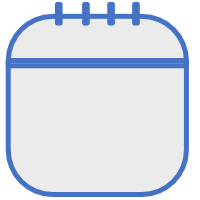
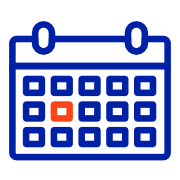
Continue updates for spring 2022

diff --git a/index.md b/index.md
@@ -4,9 +4,11 @@ keywords: syllabus
 tags: 
 sidebar: home_sidebar
 permalink: index.html
-summary: Applications of AI in Biology
+summary: Course website for the Spring 2022 edition of Zoo4926 (section 4G55) / Zoo6927 (section 5F55), AI in Biology. Covering applications of AI in Biology.
 toc: false
 ---
+
+{% include warning.html content="I am in the process of updating this site for Spring 2022. The course goals and overall structure are there, but dates, assignments, details are still being updated." %}
 
 ## Course Description
 
@@ -18,13 +20,34 @@ The course will attempt to provide sufficient background and foundations so that
 
 Classes will have some lecture, though most classes will consist of live coding demos and hands-on exercises.
 
+___
+## Instructor
+
+**Matt Gitzendanner**<br>
+**Email:** <a href="mailto:magitz@ufl.edu">magitz@ufl.edu</a><br>
+**Office:** Dickinson Hall, stop at front desk and they will call me
+ 
+**About:**  Dr Gitzendanner's background is in plant evolutionary genetics and genomics where he uses genetic tools to study the conservation, evolution, and diversity of plants. The field is generally computationally intensive, and Matt has worked for 10 years training users how to use HiPerGator and other high-performance computing systems to do the amazing research that is done across the University of Florida campus.
+
+The initial version of this course, taught in Spring 2021, was co-developed with [Brian Stucky](https://github.com/stuckyb).
+
+In addition to this course, Matt teaches
+  * [Computational Tools for Research in Biology (BSC4452/6451)](https://comptoolsres.github.io/)
+  * Frontiers in AI (EGN1935, Fall 2021. Will likely be offered in Fall 2022 as a IDS class!)
+  * [Practicum AI](https://practicumai.org/)
+  * [Research Computing Trainings](https://help.rc.ufl.edu/doc/Training)
+  * [NVIDIA DLI Fundamentals of Deep Learning](https://www.nvidia.com/en-us/training/instructor-led-workshops/fundamentals-of-deep-learning/) certified instructor
+
+Matt enjoys spending time outdoors, hiking, backpacking and kayaking.
+
+___
 ## Prerequisites
 
 ### Computer programming
 
-The course assumes a basic understanding of computer programming in general, and Python in particular.
+The course assumes a **basic understanding of computer programming** in general, and Python in particular.
 
-If you have not taken a programming course or are new to Python, there are several LinkedIn Learning courses that will give you sufficient background to be ready for this course:
+If you have not taken a programming course or are new to Python, there are several LinkedIn Learning courses that will give you sufficient background to be ready for this course (these are free for UF Students):
 
 * [Programming Foundations: Fundamentals](https://www.linkedin.com/learning-login/share?forceAccount=false&redirect=https%3A%2F%2Fwww.linkedin.com%2Flearning%2Fprogramming-foundations-fundamentals-3%3Ftrk%3Dshare_ent_url&account=41282748)
   * This course is best for people with no coding experience.
@@ -34,28 +57,32 @@ If you have not taken a programming course or are new to Python, there are sever
 * [Learning Python](https://www.linkedin.com/learning-login/share?forceAccount=false&redirect=https%3A%2F%2Fwww.linkedin.com%2Flearning%2Flearning-python%3Ftrk%3Dshare_ent_url&account=41282748)
   * Another option for those with some coding experience
 
-Note, you do not need to do all of these. Any one would get you at a good place to start the semester. We will review the basics of Python in the first weeks.
+
+ {% include note.html content="Note, you do not need to do all of these. Any **one** would get you at a good place to start the semester. We will review the basics of Python in the first weeks." %}
 
 ### Math
 
-You should have an understanding of probability and statistics at the level of a first applied statistics course.
+You should have a **general understanding of probability and statistics** at the level of a first applied statistics course.
 
-Knowledge of basic calculus and, to a lesser extent, linear algebra, will also be helpful. We won't focus on the math, but having at least a conceptual understanding of derivatives, function optimization, and matrix math will be useful.
+Knowledge of basic calculus and, to a lesser extent, linear algebra, can be helpful. We won't focus on the math, but having a conceptual understanding of derivatives, function optimization, and matrix math will be useful. 
 
 If you are unsure, contact the instructor.
 
+___
 ## Meeting Times
 
-* **Mon, Wed, Fri 1:55pm - 2:45pm Bartram 211**
+* **Mon, Wed, Fri from 1:55pm - 2:45pm in Bartram 211**
 
  {% include important.html content="You should make every effort to attend class synchronously. While I will record class sessions, **during class is the best opportunity to ask questions and get help from the instructors and others in the class.**" %}
 
 * I understand that some students will need to miss classes sometimes. That is fine and I will do my best to help you catch up, but regular attendance is the best way to learn.
 
+___
 {% include custom/office_hours.html %}
 
  {% include tip.html content="Coding is not always easy. Simple solutions are not always obvious. There will be some frustration. **I expect that you will need help. You should expect that you will need help.** I want to help you! I cannot always help if you do not ask for the help you need. *Please ask for help!*" %}
 
+___
 ## Course Textbooks
 
 {% include image.html file='textbook.png' alt="textbook icon" position="right" max-width=75 %}
@@ -65,6 +92,7 @@ While we will not use any one text for the course, we will use sections of these
 
 * [{% include inline_image.html file='D2DL_cover.png' alt="D2DL textbook icon"  %} Dive into Deep Learning by Aston Zhang, Zachary Lipton, Mu Li and Alexander Smola](https://d2l.ai/)
 
+___
 ## Course Calendar
 
 {% include image.html file='calendar.png' alt="calendar icon" position="right" max-width=75 %}
@@ -75,8 +103,8 @@ For readings, there may be links to pages with my notes and additional explanati
 
 Week | Date | Reading/Assignment |Topic |
 -----|------|--------------------|------|
-[1](Week_01.html) | Wed, Jan 5 |  | Course introduction ([slides](https://docs.google.com/presentation/d/1_o3_VOy9xAxA2GZiSQbT-QVd5wIV3Em-ta5JbJ2yS0o/edit?usp=sharing))<BR> What is AI, what is intelligence, what AI isn’t ([slides](documents/intro_to_AI.pdf))
-[1](Week_01.html) | Fri, Jan 7 | [Take the HiPerGator Account training](https://help.rc.ufl.edu/doc/New_user_training) <br /> [Driverless cars show the limits of today’s AI](https://www.economist.com/technology-quarterly/2020/06/11/driverless-cars-show-the-limits-of-todays-ai) | Historical Context ([slides](documents/intro_to_AI.pdf))<br>* Origins of AI as an academic discipline.<br>* A repeating pattern: major hype and enthusiasm followed by an AI “winter”.<br>* Where are we now?<br>
+[1](Week_01.html) | Wed, Jan 5 |  | Course introduction ([slides](https://docs.google.com/presentation/d/10_t6BSQsqlYv5FPHprm_Pm3jomdfEnmIJV_Il1MH4Q4/edit?usp=sharing))<BR> What is AI, what is intelligence, what AI isn’t ([slides](documents/intro_to_AI.pdf))
+[1](Week_01.html) | Fri, Jan 7 | [Take the HiPerGator Account training](https://help.rc.ufl.edu/doc/New_user_training) | Historical Context ([slides](documents/intro_to_AI.pdf))<br>* Origins of AI as an academic discipline.<br>* A repeating pattern: major hype and enthusiasm followed by an AI “winter”.<br>* Where are we now?<br>
 |||
 [2](Week_02.html) | Mon, Jan 10 | | [Introduction to Jupyter](jupyter_intro.md)
 [2](Week_02.html) | Wed, Jan 12 | | [Introduction to Python](https://github.com/AIBiology/Jupyter_Content/blob/main/Intro_to_Python_Student.ipynb)
@@ -87,56 +115,56 @@ Week | Date | Reading/Assignment |Topic |
 [3](Week_03.html) | Fri, Jan 21 | [![PDHS Image](images/PDSH-cover-small.png) Ch 3 of PDSH: Data Manipulation with Pandas](https://jakevdp.github.io/PythonDataScienceHandbook/03.00-introduction-to-pandas.html) | [Introduction to Pandas](https://github.com/AIBiology/Jupyter_Content/blob/main/Intro_to_Pandas_student.ipynb) <br> [Data Visualization in Pandas](https://github.com/AIBiology/Jupyter_Content/blob/main/Pandas_data_vis.ipynb)<br>Review of general Python: Functions, Good programming practices (DRY, avoid globals, etc.).
 |||
 [4](Week_04.html) | Mon, Jan 24 | **Problem Set 1 due** | [Writing readable code, numpy array arithmetic, data visualization in Python](https://github.com/AIBiology/Jupyter_Content/blob/main/Python_data_visualization.ipynb)
-[4](Week_04.html) | Wed, Jan 26 | [![PDHS Image](images/PDSH-cover-small.png) Section 5.01 of PDSH: What is Machine Learning?](https://jakevdp.github.io/PythonDataScienceHandbook/05.01-what-is-machine-learning.html) | [Data visualization in Python](https://github.com/AIBiology/Jupyter_Content/blob/main/Python_data_visualization.ipynb)
-[4](Week_04.html) | Fri, Jan 28 | Problem Set 2 available, due {{site.ps_2_due}} | [Introduction to machine learning and supervised learning](https://github.com/AIBiology/Jupyter_Content/blob/main/intro_to_supervised_learning.ipynb)
+[4](Week_04.html) | Wed, Jan 26 | [![PDHS Image](images/PDSH-cover-small.png) Section 5.01 of PDSH: What is Machine Learning?](https://jakevdp.github.io/PythonDataScienceHandbook/05.01-what-is-machine-learning.html) |  [Introduction to machine learning and supervised learning](https://github.com/AIBiology/Jupyter_Content/blob/main/intro_to_supervised_learning.ipynb)
+[4](Week_04.html) | Fri, Jan 28 | Problem Set 2 available, due {{site.ps_2_due}} | Supervised learning, introduction to numerical optimization
 |||
-[5](Week_05.html) | Mon, Jan 31 |  | Supervised learning, introduction to numerical optimization
-[5](Week_05.html) | Wed, Feb 2 | [![PDHS Image](images/PDSH-cover-small.png) Section 5.02 of PDSH: Introducing Scikit-Learn (read through _Basics of the API_)](https://jakevdp.github.io/PythonDataScienceHandbook/05.02-introducing-scikit-learn.html) | Supervised learning and numerical optimization, scikit-learn and regression
-[5](Week_05.html) | Fri, Feb 4 | **Problem Set 2 due** | Bias/variance tradeoff and regularization
+[5](Week_05.html) | Mon, Jan 31 |  | Supervised learning and numerical optimization, scikit-learn and regression
+[5](Week_05.html) | Wed, Feb 2 | [![PDHS Image](images/PDSH-cover-small.png) Section 5.02 of PDSH: Introducing Scikit-Learn (read through _Basics of the API_)](https://jakevdp.github.io/PythonDataScienceHandbook/05.02-introducing-scikit-learn.html) | Bias/variance tradeoff and regularization
+[5](Week_05.html) | Fri, Feb 4 | **Problem Set 2 due** |  Model validation, cross-validation, and hyperparameters
 |||
-[6](Week_06.html) | Mon, Feb 7 |  | Model validation, cross-validation, and hyperparameters<!--[Hands on regression analysis](https://github.com/UFResearchComputing/Understanding_PyTorch)-->
-[6](Week_06.html) | Wed, Feb 9 |  | Hands-on data analysis practice
-[6](Week_06.html) | Fri, Feb 11 | | Hands-on data analysis, problem set help
+[6](Week_06.html) | Mon, Feb 7 |  |Hands-on data analysis practice
+[6](Week_06.html) | Wed, Feb 9 |  | Hands-on data analysis, problem set help
+[6](Week_06.html) | Fri, Feb 11 | [![PDHS Image](images/PDSH-cover-small.png) Section 5.06 of PDSH: In Depth: Linear Regression](https://jakevdp.github.io/PythonDataScienceHandbook/05.06-linear-regression.html) | Linear Regression--Lasso and Ridge Regression 
+|||Es
+[7](Week_07.html) | Mon, Feb 14 |Problem set 3 available, due {{site.ps_3_due}}   | Hands-on Linear Regression
+[7](Week_07.html) | Wed, Feb 16 | | [Classification, logistic regression](https://github.com/AIBiology/Jupyter_Content/blob/main/Classification.ipynb)
+[7](Week_07.html) | Fri, Feb 18 | [![PDHS Image](images/PDSH-cover-small.png) Section 5.07 of PDSH: In-Depth: Support Vector Machines)](https://jakevdp.github.io/PythonDataScienceHandbook/05.07-support-vector-machines.html) |  [Support vector machines](https://github.com/AIBiology/Jupyter_Content/blob/main/SupportVectorMachines.ipynb) 
+[8](Week_08.html) | Mon, Feb 21 |  | Hands-on SVMs<br>Work through either: <br>- [Tutorial: image classification with scikit-learn](https://kapernikov.com/tutorial-image-classification-with-scikit-learn/)<br>[Remote Sensed Hyperspectral Image Classification With The Extended Morphological Profiles and Support Vector Machines](https://github.com/andreybicalho/ExtendedMorphologicalProfiles)<br>
+[8](Week_08.html) | Wed, Feb 23|    | Intro to Artificial Neural Networks
+[8](Week_08.html) | Fri, Feb 25 | Intro to Artificial Neural Networks
 |||
-[7](Week_07.html) | Mon, Feb 14 |  | Estimating Test Error
-[7](Week_07.html) | Wed, Feb 16 | [![PDHS Image](images/PDSH-cover-small.png) Section 5.06 of PDSH: In Depth: Linear Regression](https://jakevdp.github.io/PythonDataScienceHandbook/05.06-linear-regression.html) | Linear Regression--Lasso and Ridge Regression
-[7](Week_07.html) | Fri, Feb 18 |  | Lasso and Ridge Regression
-|||
-[8](Week_08.html) | Mon, Feb 21 |  Problem set 3 available, due {{site.ps_3_due}} | Hands-on Linear Regression
-[8](Week_08.html) | Wed, Feb 23|  | [Classification, logistic regression](https://github.com/AIBiology/Jupyter_Content/blob/main/Classification.ipynb)
-[8](Week_08.html) | Fri, Feb 25 | [![PDHS Image](images/PDSH-cover-small.png) Section 5.07 of PDSH: In-Depth: Support Vector Machines)](https://jakevdp.github.io/PythonDataScienceHandbook/05.07-support-vector-machines.html) | [Support vector machines](https://github.com/AIBiology/Jupyter_Content/blob/main/SupportVectorMachines.ipynb)
-|||
-[9](Week_09.html) | Mon, Feb 28 | | Hands-on SVMs<br>Work through either: <br>- [Tutorial: image classification with scikit-learn](https://kapernikov.com/tutorial-image-classification-with-scikit-learn/)<br>[Remote Sensed Hyperspectral Image Classification With The Extended Morphological Profiles and Support Vector Machines](https://github.com/andreybicalho/ExtendedMorphologicalProfiles)
-[9](Week_09.html) | Wed, Mar 2 |  | Decision Trees
-[9](Week_09.html) | Fri, Mar 4 | **Problem Set 3 due**  | Random Forests
+[9](Week_09.html) | Mon, Feb 28 | | Convolutional Neural Networks
+[9](Week_09.html) | Wed, Mar 2 |  | Convolutional Neural Networks
+[9](Week_09.html) | Fri, Mar 4 | **Problem Set 3 due**  | Convolutional Neural Networks
 |||
 [10](Week_10.html) | Mon, Mar 7|  | No Class: Spring Break
 [10](Week_10.html) | Wed, Mar 9 |  |  No Class: Spring Break
 [10](Week_10.html) | Fri, Mar 11 |  | No Class: Spring Break
 |||
-[11](Week_11.html) | Mon, Mar 14 |  |
-[11](Week_11.html) | Wed, Mar 16 |  | 
-[11](Week_11.html) | Fri, Mar 18 ||
+[11](Week_11.html) | Mon, Mar 14 |  | Transfer Learning
+[11](Week_11.html) | Wed, Mar 16 |  | Time Series Analysis with RNNs
+[11](Week_11.html) | Fri, Mar 18 |  | Time Series Analysis with RNNs
 |||
-[12](Week_12.html) | Mon, Mar 21 |  | 
-[12](Week_12.html) | Wed, Mar 23 |  | 
-[12](Week_12.html) | Fri, Mar 25 |  Problem set 6 available, due {{site.ps_6_due}} | 
+[12](Week_12.html) | Mon, Mar 21 |  | Time Series Analysis with RNNs
+[12](Week_12.html) | Wed, Mar 23 |  | Natural Language Processing
+[12](Week_12.html) | Fri, Mar 25 |  Problem set 6 available, due {{site.ps_6_due}} | Natural Language Processing
 |||
-[13](Week_13.html) | Mon, Mar 28 |  | Topics TBD
-[13](Week_13.html) | Wed, Mar 30 |  | Topics TBD
-[13](Week_13.html) | Fri, Apr 1 | **Problem Set 6 due** | Topics TBD
+[13](Week_13.html) | Mon, Mar 28 |  | NLP and Transformers
+[13](Week_13.html) | Wed, Mar 30 |  | Transformers
+[13](Week_13.html) | Fri, Apr 1 | **Problem Set 6 due** | Transformers
 |||
-[14](Week_14.html) | Mon, Apr 4 |  | Topics TBD
-[14](Week_14.html) | Wed, Apr 6 |  | Topics TBD
+[14](Week_14.html) | Mon, Apr 4 |  | Medical Image Analysis
+[14](Week_14.html) | Wed, Apr 6 |  | Medical Image Analysis
 [14](Week_14.html) | Fri, Apr 8 |  | Topics TBD
 |||
-[15](Week_15.html) | Mon, Apr 11 |  | Topics TBD
-[15](Week_15.html) | Wed, Apr 13 |  | Topics TBD
-[15](Week_15.html) | Fri, Apr 15 |**Project Due** | 
+[15](Week_15.html) | Mon, Apr 11 |  | Project time
+[15](Week_15.html) | Wed, Apr 13 |  | Project time
+[15](Week_15.html) | Fri, Apr 15 |**Project Due** | Project time
 |||
 [16](Week_16.html) | Mon, Apr 18 |  | Project Presentations
 [16](Week_16.html) | Wed, Apr 20 |  | Project Presentations
 
+___
 ## Software and Hardware
 
 Participants will need a computer with internet connection, webcam and microphone for all classes.
@@ -155,6 +183,7 @@ Any requests for make-ups due to technical issues should be accompanied by the t
 
 All faculty, staff and student of the University are required and expected to obey the laws and legal agreements governing software use. Failure to do so can lead to monetary damages and/or criminal penalties for the individual violator. Because such violations are also against University policies and rules, disciplinary action will be taken as appropriate.
 
+___
 ## Grading
 
 See also the [List of Graded Work page](Grading.html).
@@ -198,9 +227,7 @@ Grading in this class is consistent with UF policies available at: [https://cata
         <!-- /.panel-heading--> 
         <div id="collapseB" class="panel-collapse collapse noCrossRef">
             <div class="panel-body">
-                <tHighlights
-
-Arctic Code Vaulable>
+                <table>
                   <thead>
                     <tr>
                       <th>A</th>
@@ -245,6 +272,7 @@ Arctic Code Vaulable>
 </div>
 <!-- /.panel-group -->
 
+___
 ## Course Policies
 
 ### Class Attendance and Makeup Policy
@@ -263,14 +291,17 @@ All quizzes and assignments are "open book, open internet", you may use whatever
 
 Please notify the instructor of circumstances that lead to late work or missed classes. I will generally work with you and accept late work. Without prior notification, late work will be penalized one point per day after the due date.
 
+___
 ## Students Requiring Accommodations
 
 Students with disabilities requesting accommodations should first register with the Disability Resource Center (352-392-8565, [https://disability.ufl.edu/students/get-started/](https://disability.ufl.edu/students/get-started/)) by providing appropriate documentation. Once registered, students will receive an accommodation letter which must be presented to the instructor when requesting accommodation. Students with disabilities should follow this procedure as early as possible in the semester.
 
+___
 ## Course Evaluation
 
 Students are expected to provide professional and respectful feedback on the quality of instruction in this course by completing course evaluations online via GatorEvals. Guidance on how to give feedback in a professional and respectful manner is available at [gatorevals.aa.ufl.edu/students/](https://gatorevals.aa.ufl.edu/students/). Students will be notified when the evaluation period opens, and can complete evaluations through the email they receive from GatorEvals, in their Canvas course menu under GatorEvals, or via [ufl.bluera.com/ufl/](https://ufl.bluera.com/ufl/). Summaries of course evaluation results are available to students at [gatorevals.aa.ufl.edu/public-results/](https://gatorevals.aa.ufl.edu/public-results/).
 
+___
 ## Class Demeanor and Netiquette
 
 Students are expected to be in class on time and behave in a manner that is respectful to the instructors and to fellow students.
@@ -283,6 +314,7 @@ Students should be working on course content during class.
 
 The [GitHub discussion boards](https://github.com/AIBiology/aibiology.github.io/discussions) can be used to ask for and provide help by all. Students should be supportive and considerate of others at all times. Rude or inappropriate comments will be removed and the poster will be warned.
 
+___
 ## University Honesty Policy
 
 UF students are bound by The Honor Pledge which states:
@@ -290,6 +322,7 @@ UF students are bound by The Honor Pledge which states:
 
 [The Honor Code](https://sccr.dso.ufl.edu/policies/student-honor-code-student-conduct-code/) specifies a number of behaviors that are in violation of this code and the possible sanctions. Furthermore, you are obligated to report any condition that facilitates academic misconduct to appropriate personnel. If you have any questions or concerns, please consult with the instructor or TAs in this class
 
+___
 <div class="panel-group" id="accordion">
     <div class="panel panel-default">
         <div class="panel-heading">
@@ -321,6 +354,7 @@ UF students are bound by The Honor Pledge which states:
 </div>
 <!-- /.panel-group -->
 
+___
 ## Inclusive Learning Environment
 
 This course embraces the University of Florida’s Non-Discrimination Policy, which reads:
@@ -328,14 +362,17 @@ This course embraces the University of Florida’s Non-Discrimination Policy, wh
 
 If you have questions or concerns about your rights and responsibilities for inclusive learning environment, please see the instructor or refer to the Office of Multicultural & Diversity Affairs website: [http://multicultural.ufl.edu](http://multicultural.ufl.edu).
 
+___
 ## Privacy
 
 There are federal laws protecting your privacy with regards to grades earned in courses and on individual assignments. For more information, please see: [https://registrar.ufl.edu/ferpa.html](https://registrar.ufl.edu/ferpa.html)
 
+___
 ## Statement Regarding Course Recording
 
 Our class sessions may be audio visually recorded for students in the class to refer back to and for use of enrolled students who are unable to attend live. Students who participate with their camera engaged or utilize a profile image are agreeing to have their video or image recorded. If you are unwilling to consent to have your profile or video image recorded, keep your camera off and do not use a profile image. Likewise, students who un-mute during class and participate verbally are agreeing to have their voices recorded.  If you are unwilling to consent to have your voice recorded during class, you will need to keep your mute button activated.  As in all courses, unauthorized recording and unauthorized sharing of recorded materials is prohibited.
 
+___
 <div class="panel-group" id="accordion">
     <div class="panel panel-default">
         <div class="panel-heading">
